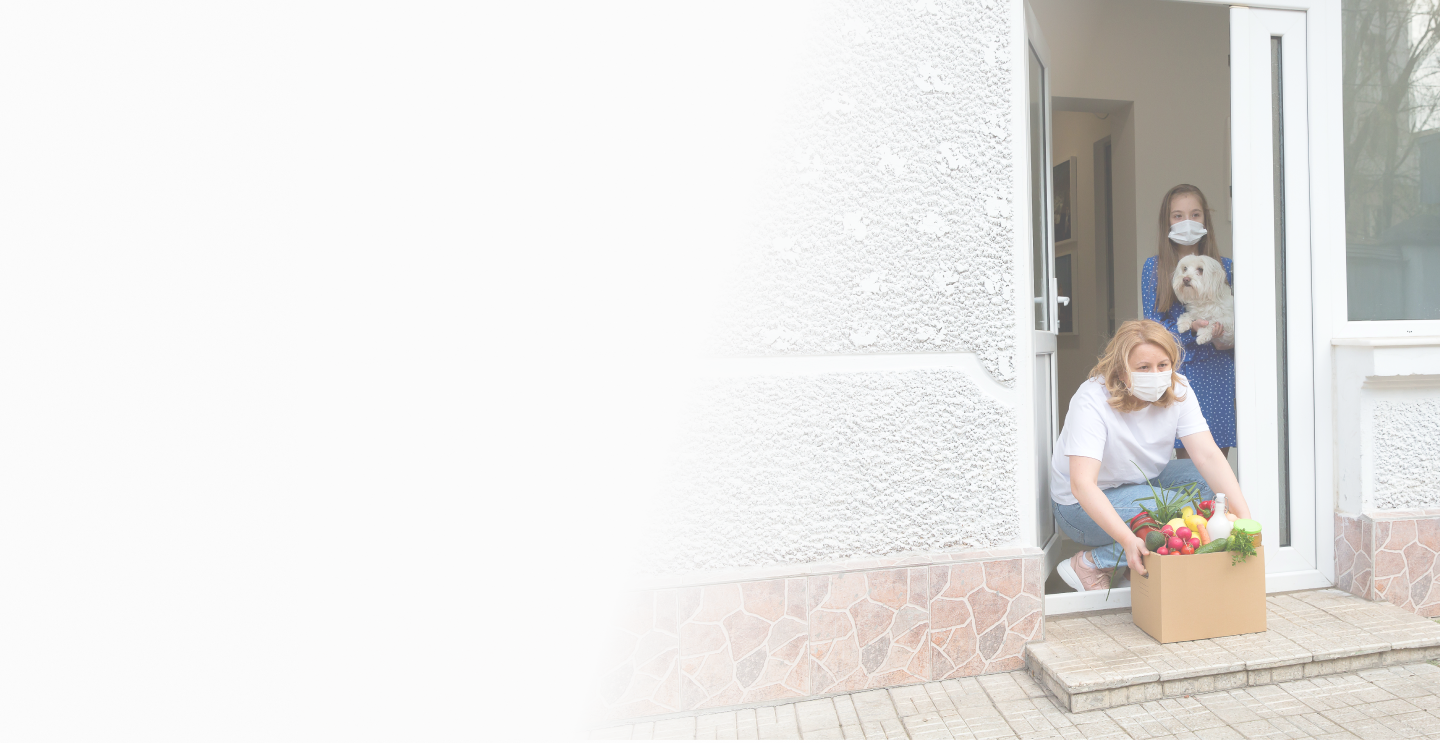
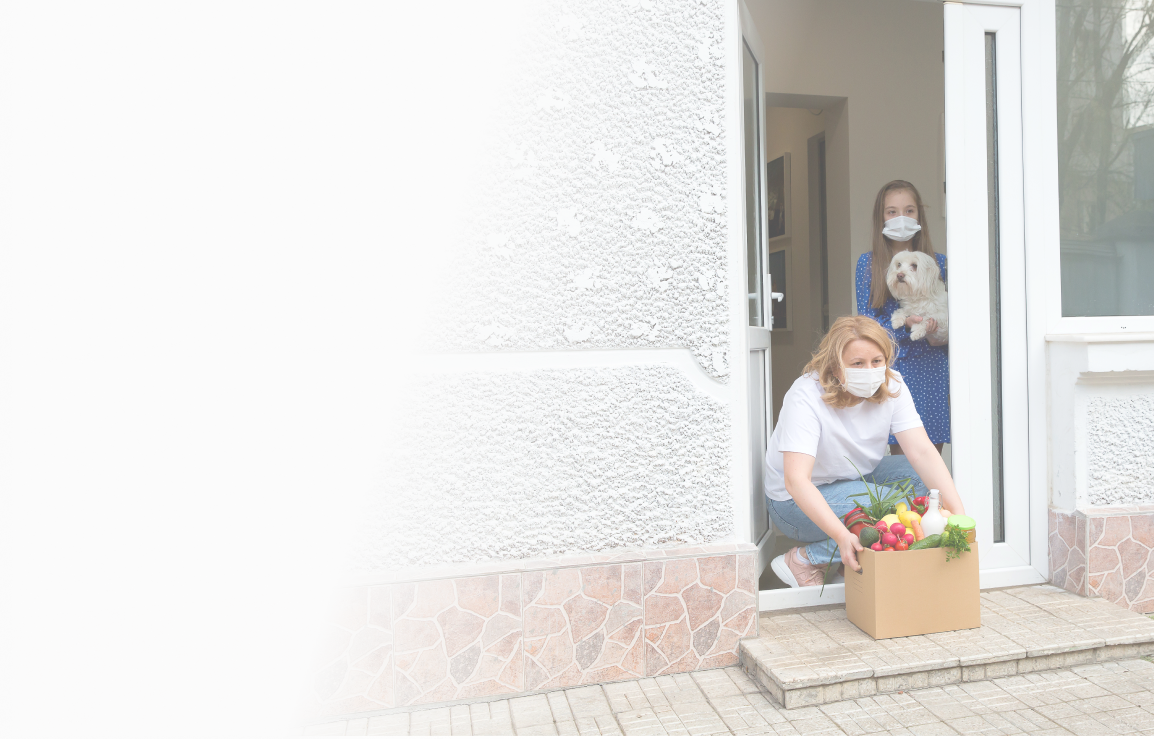
Hero image fix

Changed region(s): [[0.3432, 0.0, 1.0, 0.9959], [0.9671, 0.0, 1.0, 0.1867]]

diff --git a/src/styles/style.css b/src/styles/style.css
@@ -133,12 +133,7 @@ ul li {
   display: flex;
   justify-content: space-between;
   background-color: #000000;
-  background: linear-gradient(
-      107.98deg,
-      #fbfbfb 48.19%,
-      rgba(255, 255, 255, 0.33) 65.9%
-    ),
-    url("../images/background-img.png") !important;
+  background: url("../images/background-img.png") !important;
   margin-top: -60px;
   height: 743px;
   background-repeat: no-repeat !important;
@@ -979,7 +974,7 @@ footer {
 
 @media screen and (max-width: 768px) {
   .hero {
-    background-image: url("../images/background-img.png") !important;
+    background-image: url("../images/background-img-mobile.png") !important;
     background-position: center !important;
     background-repeat: no-repeat;
     background-size: cover !important;
@@ -1077,6 +1072,7 @@ footer {
   }
   .hero-content p {
     width: 100%;
+    font-weight: bold;
   }
   .hero-button {
     display: flex;
@@ -1093,6 +1089,7 @@ footer {
   }
   .volunteer-button {
     margin: 0 auto !important;
+    background-color: white;
   }
   .card {
     width: 100%;
